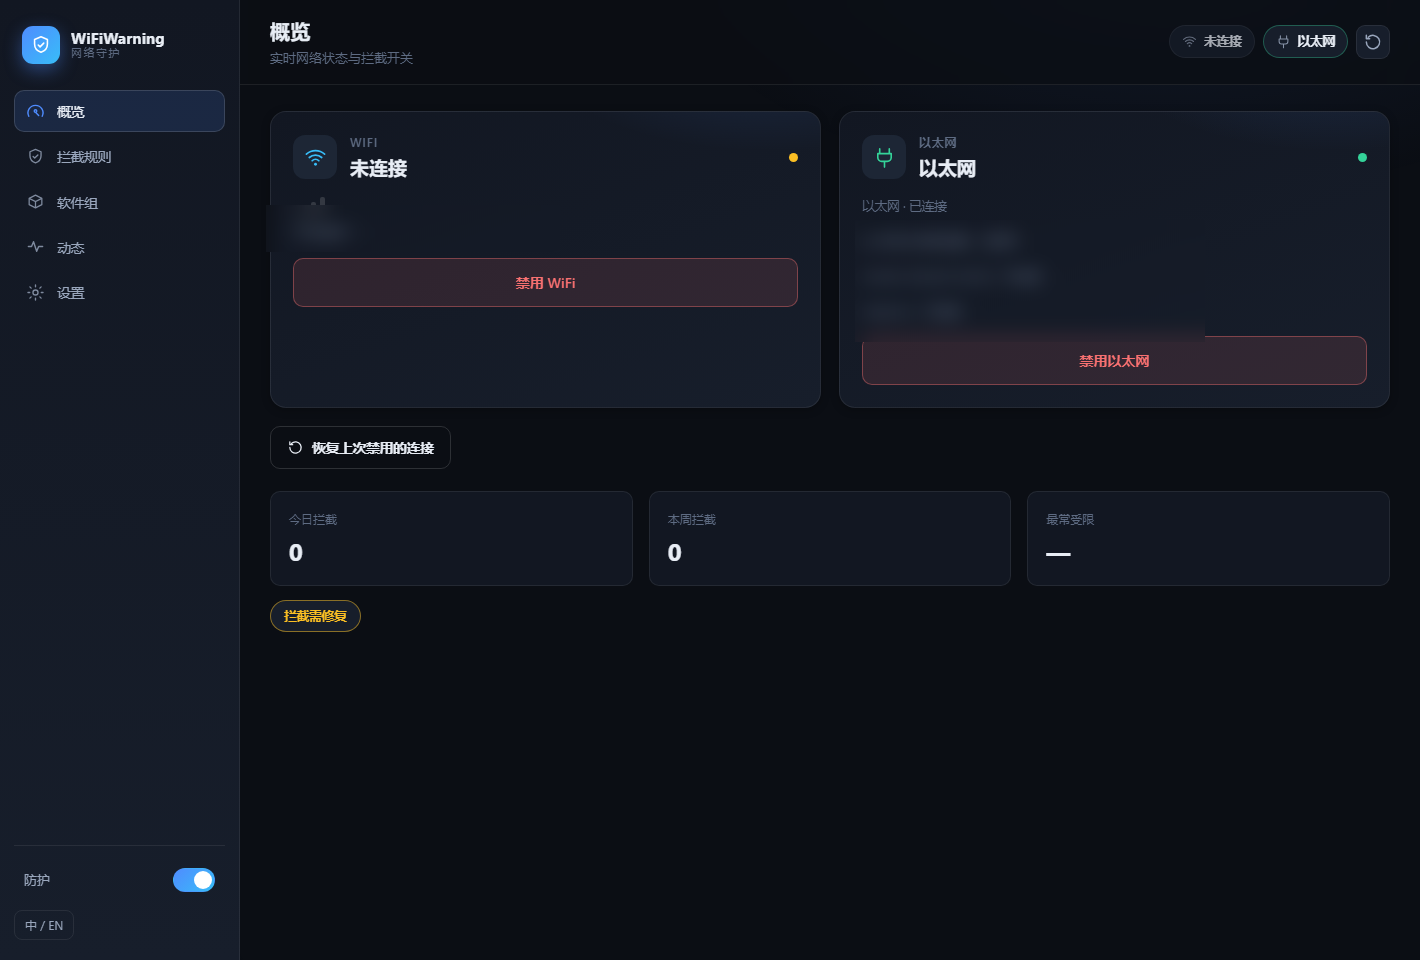
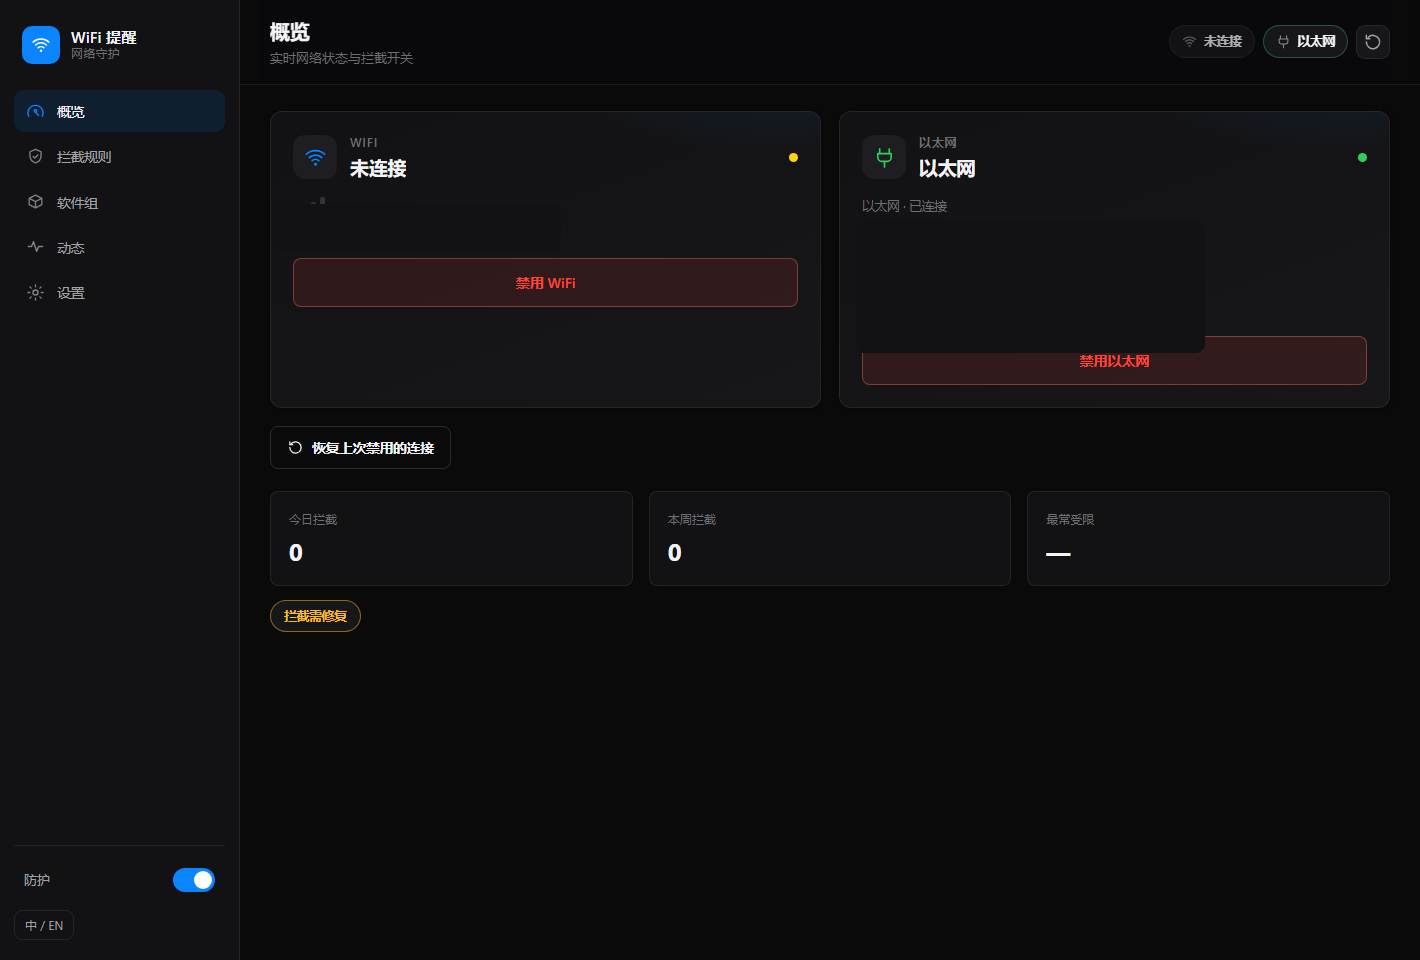
style(ui): 统一为极简苹果风主题（单一主色 / 统一品牌 / 去除 AI 渐变）
- 新增 frontend/css/theme.css，作为所有页面的统一视觉层：中性深色底 + 单一 Apple 蓝主色
- 设置页/警告页/选网页统一加载同一主题，消除旧绿色皮肤与新蓝色界面的割裂
- 品牌统一为 WiFi 图标 + “WiFi 提醒 / WiFi Warning”，去除旧 “!” 标记与 “WiFiWarning” 混用
- 移除装饰性径向渐变、品牌渐变与发光阴影，改用扁平表面；状态点不再脉冲
- 设置页复选框改为 iOS 风格开关；移除无实际作用的“深色”开关（统一深色主题）
- 重新生成全部界面截图（概览敏感网卡名已做不透明打码）

diff --git a/frontend/css/theme.css b/frontend/css/theme.css
@@ -1,0 +1,77 @@
+/* ===== Unified minimal theme (Apple-style, single accent) =====
+   Loaded LAST on every page; owns the final visual language. */
+body.dark, .app-shell, :root{
+  color-scheme: dark;
+  --bg:#0a0a0b;
+  --surface:#121214;
+  --surface-2:#17171a;
+  --surface-3:#1e1e22;
+  --surface-strong:#1e1e22;
+  --border:rgba(255,255,255,.08);
+  --border-2:rgba(255,255,255,.14);
+  --line:rgba(255,255,255,.08);
+  --text:#f5f5f7;
+  --text-2:#a1a1a6;
+  --muted:#6e6e73;
+  --accent:#0a84ff;
+  --accent-2:#0a84ff;
+  --accent-strong:#0a84ff;
+  --accent-soft:rgba(10,132,255,.12);
+  --ok:#30d158; --success:#30d158;
+  --warn:#ffd60a;
+  --danger:#ff453a; --danger-soft:rgba(255,69,58,.12);
+  --radius:12px; --radius-sm:8px;
+  --shadow:0 10px 30px rgba(0,0,0,.45);
+  --shadow-sm:0 1px 3px rgba(0,0,0,.35);
+  --font:-apple-system,BlinkMacSystemFont,"SF Pro Text","Segoe UI Variable","Segoe UI","PingFang SC","Microsoft YaHei",sans-serif;
+}
+html[data-theme="light"]{
+  color-scheme: light;
+  --bg:#f5f5f7; --surface:#ffffff; --surface-2:#f2f2f5; --surface-3:#e8e8ed; --surface-strong:#e8e8ed;
+  --border:rgba(0,0,0,.08); --border-2:rgba(0,0,0,.14); --line:rgba(0,0,0,.08);
+  --text:#1d1d1f; --text-2:#515154; --muted:#86868b;
+  --accent-soft:rgba(10,132,255,.10);
+  --shadow:0 10px 30px rgba(0,0,0,.10); --shadow-sm:0 1px 3px rgba(0,0,0,.08);
+}
+*{ -webkit-font-smoothing:antialiased; }
+body{ font-family:var(--font)!important; background:var(--bg); color:var(--text); }
+/* strip decorative / “AI” gradients & glows */
+body::before{ display:none!important; }
+.rail,.sidebar{ background:var(--surface)!important; background-image:none!important; border-color:var(--border)!important; color:var(--text)!important; }
+.brand-mark{ background:var(--accent)!important; background-image:none!important; box-shadow:none!important; border-radius:10px!important; display:grid; place-items:center; color:#fff!important; }
+.brand-mark svg{ width:20px; height:20px; }
+.brand-text strong,.sidebar .brand strong{ color:var(--text)!important; font-weight:600; font-size:15px; }
+.brand-text span,.sidebar .brand span{ color:var(--muted)!important; letter-spacing:.02em!important; text-transform:none!important; font-size:12px!important; }
+.nav-item.active{ background:var(--accent-soft)!important; box-shadow:none!important; }
+.sidebar .nav-item{ color:var(--text-2)!important; background:transparent!important; border-radius:10px; }
+.sidebar .nav-item.active,.sidebar .nav-item:hover{ background:var(--accent-soft)!important; color:var(--text)!important; }
+.sidebar .switch-row{ color:var(--text-2)!important; }
+.sidebar .switch-row input{ accent-color:var(--accent)!important; }
+.sidebar .language-links,.sidebar .language-links span{ color:var(--muted)!important; }
+.sidebar .language-links button{ color:var(--text-2)!important; }
+.sidebar .language-links button.active{ color:var(--text)!important; }
+.topbar{ background:color-mix(in srgb,var(--bg) 82%,transparent)!important; }
+/* typography: calmer headings */
+.topbar-title h1,.panel-header h1,.sidebar h1{ font-weight:600!important; letter-spacing:-.01em!important; }
+h1,h2,h3{ letter-spacing:-.01em; }
+/* flat single-accent buttons */
+.btn-primary,.primary-button,.primary,.cta,.primary-button.is-primary{ background:var(--accent)!important; background-image:none!important; box-shadow:none!important; border:0!important; color:#fff!important; }
+.btn-primary:hover,.primary-button:hover{ filter:brightness(1.06); }
+/* semantic dots: no pulse */
+.dot.on{ animation:none!important; box-shadow:none!important; }
+/* neutral surfaces, no heavy card shadows */
+.card,.panel,.settings-card,.stat,.metric,.rule-card,.group-card,.table,.list{ background:var(--surface)!important; border-color:var(--border)!important; box-shadow:none!important; }
+a{ color:var(--accent); }
+*:focus-visible{ outline:2px solid var(--accent); outline-offset:2px; }
+/* iOS-style switch for plain checkboxes (settings page) */
+.switch-row input[type="checkbox"]:not(.sw){
+  -webkit-appearance:none; appearance:none; width:44px; height:26px; margin:0; flex:0 0 auto;
+  border-radius:999px; background:var(--surface-3); border:1px solid var(--border);
+  position:relative; cursor:pointer; transition:background .2s;
+}
+.switch-row input[type="checkbox"]:not(.sw)::before{
+  content:""; position:absolute; top:2px; left:2px; width:20px; height:20px; border-radius:50%;
+  background:#fff; box-shadow:0 1px 2px rgba(0,0,0,.45); transition:transform .2s;
+}
+.switch-row input[type="checkbox"]:not(.sw):checked{ background:var(--accent); border-color:transparent; }
+.switch-row input[type="checkbox"]:not(.sw):checked::before{ transform:translateX(20px); }

diff --git a/frontend/settings.html b/frontend/settings.html
@@ -4,11 +4,12 @@
     <meta charset="utf-8">
     <title>WiFi 提醒</title>
     <link rel="stylesheet" href="/css/style.css">
+    <link rel="stylesheet" href="/css/theme.css">
   </head>
   <body class="app-shell">
     <aside class="sidebar">
       <div class="brand">
-        <span class="brand-mark">!</span>
+        <span class="brand-mark"><svg viewBox="0 0 24 24" fill="none" stroke="#fff" stroke-width="1.9" stroke-linecap="round"><path d="M2.5 8.5a14 14 0 0 1 19 0"/><path d="M5.5 12a9.5 9.5 0 0 1 13 0"/><path d="M8.5 15.4a5 5 0 0 1 7 0"/><circle cx="12" cy="19" r="1.4" fill="#fff" stroke="none"/></svg></span>
         <div>
           <strong data-i18n="appName">WiFi 提醒</strong>
           <span id="currentSsid">检测中</span>
@@ -30,10 +31,6 @@
       <label class="switch-row">
         <span data-i18n="autoStart">开机启动</span>
         <input id="autoStartToggle" type="checkbox">
-      </label>
-      <label class="switch-row">
-        <span data-i18n="darkMode">深色</span>
-        <input id="darkToggle" type="checkbox">
       </label>
 
       <div class="language-links" aria-label="Language">

diff --git a/frontend/index.html b/frontend/index.html
@@ -4,9 +4,10 @@
 <meta charset="utf-8">
 <meta name="viewport" content="width=device-width, initial-scale=1">
 <meta name="color-scheme" content="dark light">
-<title>WiFiWarning · 网络守护</title>
+<title>WiFi 提醒 · WiFi Warning</title>
 <link rel="icon" href="/assets/icons/wifi-warning.svg">
 <link rel="stylesheet" href="/css/app.css">
+<link rel="stylesheet" href="/css/theme.css">
 </head>
 <body>
 <svg width="0" height="0" style="position:absolute" aria-hidden="true"><defs>
@@ -26,7 +27,7 @@
 <div class="app">
   <aside class="rail">
     <div class="brand">
-      <div class="brand-mark"><svg><use href="#i-shield"/></svg></div>
+      <div class="brand-mark"><svg><use href="#i-wifi"/></svg></div>
       <div class="brand-text"><strong data-i18n="appName">WiFiWarning</strong><span data-i18n="appSub">网络守护</span></div>
     </div>
     <nav class="nav" id="nav">

diff --git a/frontend/warning.html b/frontend/warning.html
@@ -4,6 +4,7 @@
     <meta charset="utf-8">
     <title>WiFi 提醒</title>
     <link rel="stylesheet" href="/css/style.css">
+<link rel="stylesheet" href="/css/theme.css">
   </head>
   <body class="warning-page">
     <main class="warning-card">

diff --git a/frontend/wifi_picker.html b/frontend/wifi_picker.html
@@ -4,6 +4,7 @@
     <meta charset="utf-8">
     <title>选择网络</title>
     <link rel="stylesheet" href="/css/style.css">
+<link rel="stylesheet" href="/css/theme.css">
   </head>
   <body class="picker-page">
     <main class="picker-shell">
